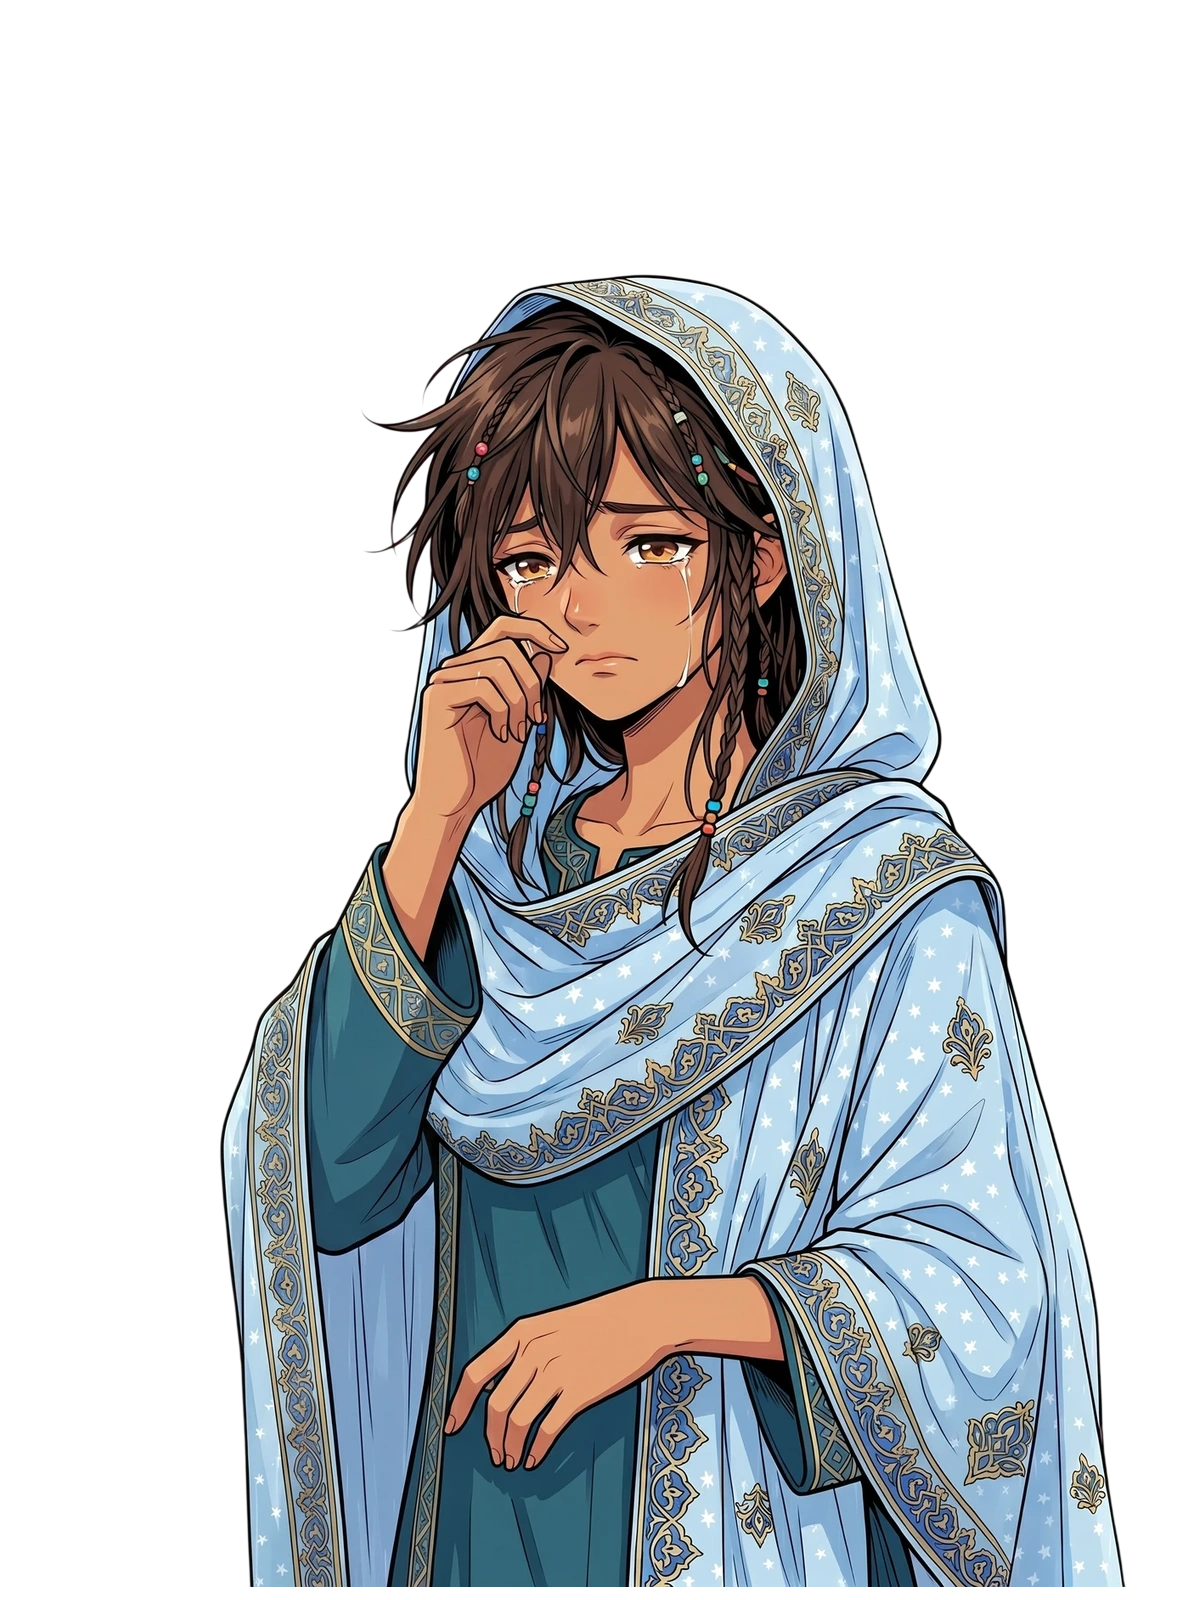
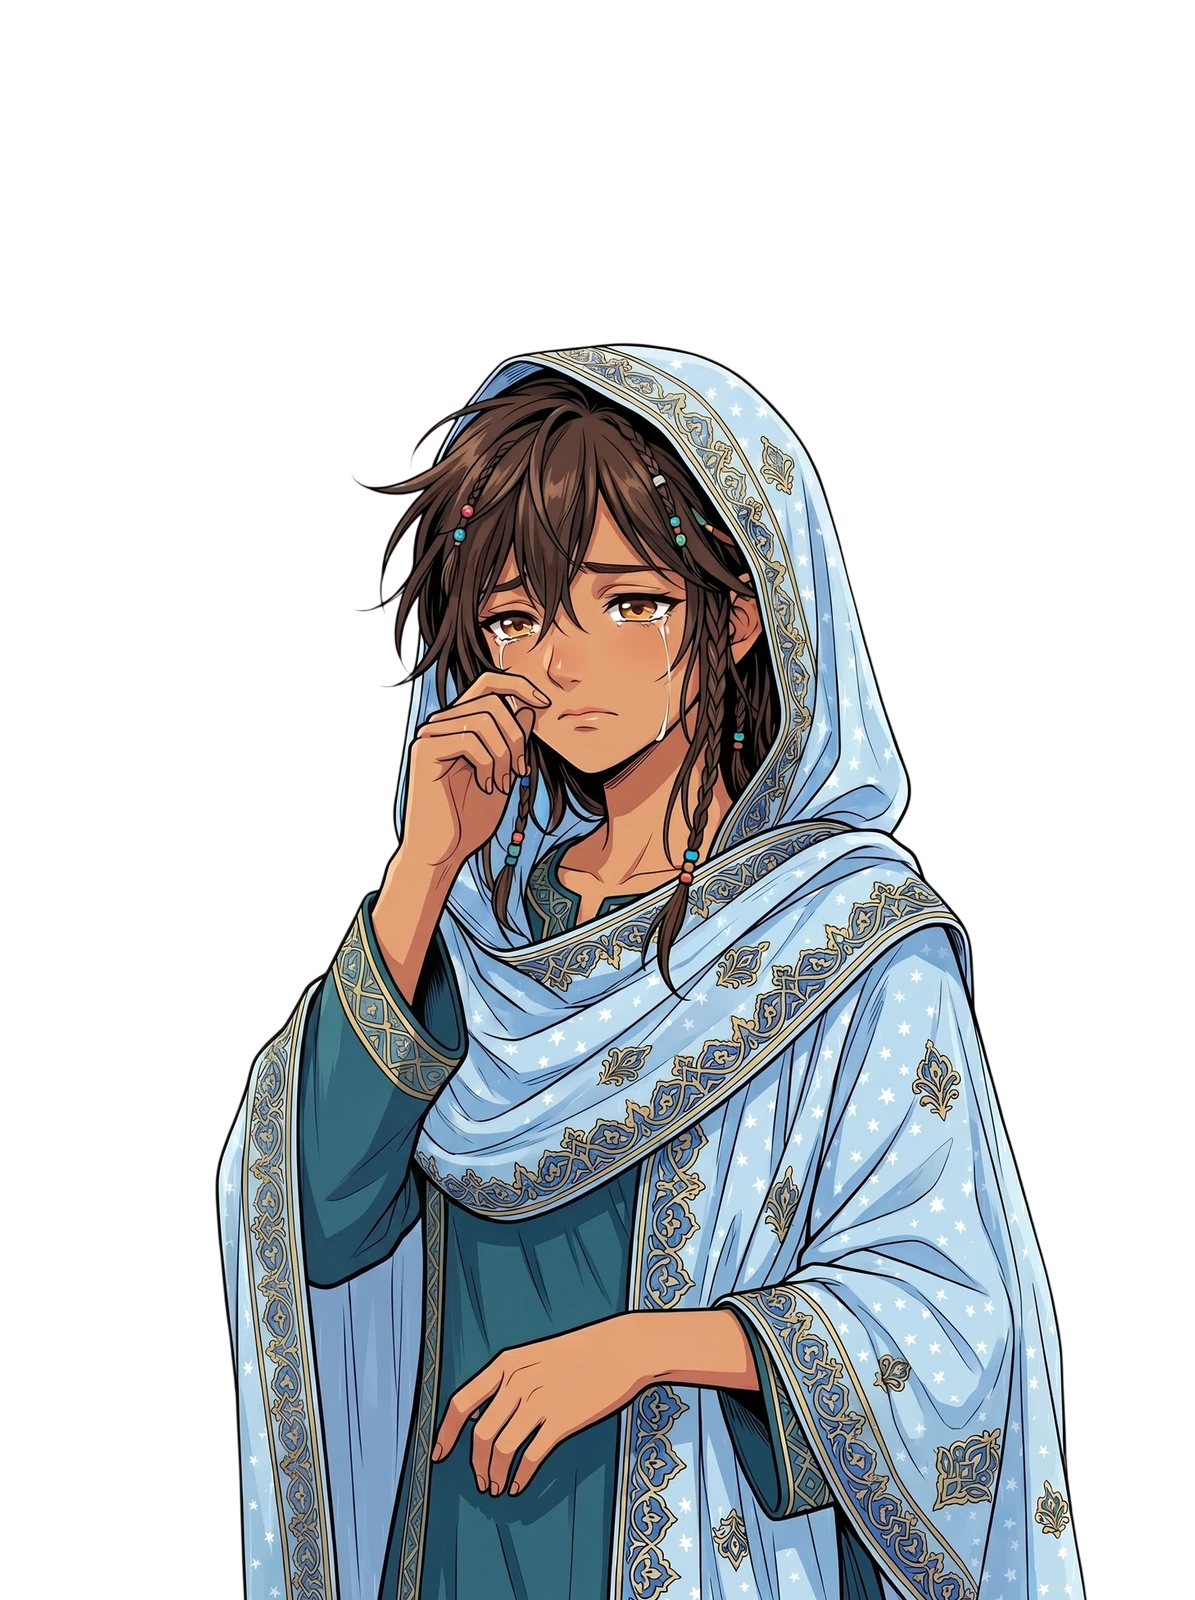
build: update bundle and assets with latest alignment

diff --git a/bundle.js b/bundle.js
@@ -30068,7 +30068,7 @@ const DEFAULT_PROFILE = {
   heroineSelect: { ...DEFAULT_VISUAL_MODE, height: 520, bottom: -86, scale: 1.3 },
   bustup: { ...DEFAULT_VISUAL_MODE, height: 660, bottom: -260, scale: 1.45 },
   eventClose: { ...DEFAULT_VISUAL_MODE, height: 700, bottom: -300, scale: 1.62 },
-  result: { ...DEFAULT_VISUAL_MODE, height: 900, bottom: -20, scale: 1.1, x: -40 },
+  result: { ...DEFAULT_VISUAL_MODE, height: 900, bottom: -20, scale: 1.1, x: -20 },
   selectIcon: DEFAULT_ICON_MODE,
   speakerIcon: DEFAULT_ICON_MODE
 };
